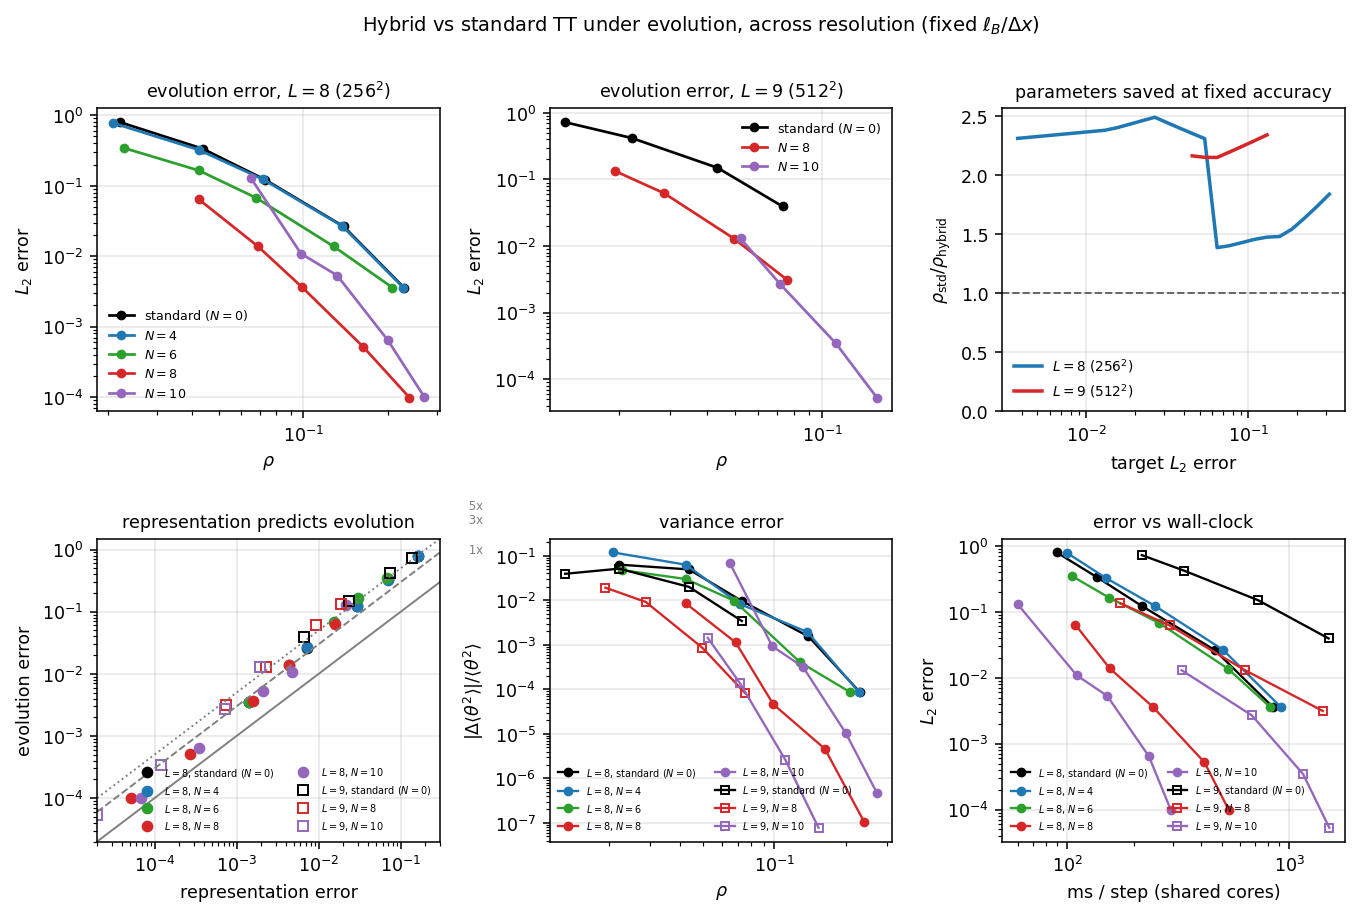
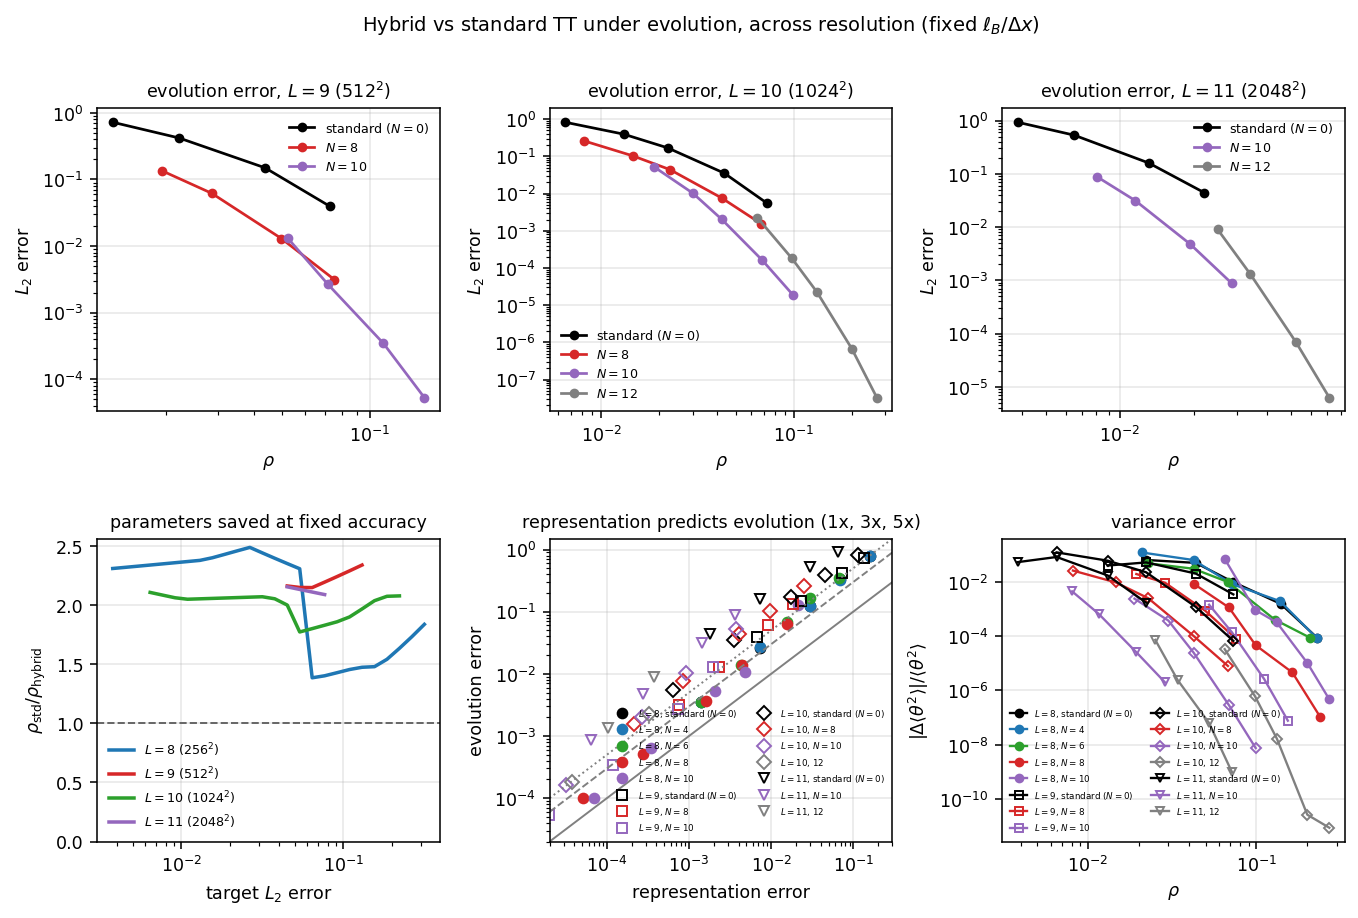
Complete the L=10 and L=11 ladder on the cluster
All 32 tasks finished, no failures. The L=12 set was cancelled deliberately
(tasks 33-44); its two-stage scripts and the shared dense-reference cache are
kept for when it is wanted.

Parameters saved at a fixed accuracy, the practical number, at the one target
inside every resolution's measured range (L2 = 6e-2):

  L=8 (256^2)   2.3x
  L=9 (512^2)   2.1x
  L=10 (1024^2) 1.8x
  L=11 (2048^2) 2.1x

Flat from 256^2 to 2048^2, confirming the correction in 3f39f70: the hybrid
buys a roughly constant factor of ~2 in parameters, not a factor that grows
with resolution. The error ratio at fixed rho still rises (2.8x at rho=0.01 up
to 25x at rho=0.05 for L=10) because the rate-distortion curves steepen, but
that is the same gap read down a steeper axis.

The best head size keeps creeping up by about one leg per L: N=8 at L=8-9,
N=10 at L=10, N=10 to 12 at L=11, so head cost ~2^N grows like sqrt(cells).

Representation error still predicts evolution error within 1.5-25x across four
resolutions, four head sizes and five budgets, which is what licenses using
cheap representation sweeps in place of the expensive evolution runs.

The dense-reference cache (run_decaying_cellular.py --dense-cache) was added
because at 4096^2 every task would otherwise recompute the same 56.5 h
trajectory; verified bit-identical to stepping it inline.

plot_scaleup.py now tolerates a resolution with only one side of the
comparison, and reports the budget saving on a finer ladder of targets, since
[…]

diff --git a/time_evolution/run_decaying_cellular.py b/time_evolution/run_decaying_cellular.py
@@ -186,16 +186,57 @@ def intrinsic_ranks(f: np.ndarray, L: int, N: int):
 
 
 # --------------------------------------------------------------------------
+# shared dense reference
+# --------------------------------------------------------------------------
+def dense_cache_paths(stem: str):
+    """Fields are kept in a plain .npy so they can be memory-mapped."""
+    return stem + "_fields.npy", stem + "_meta.npz"
+
+
+def sample_schedule(n_steps: int, n_samples: int):
+    """Step indices at which diagnostics are recorded."""
+    every = max(1, n_steps // n_samples)
+    idx = [i for i in range(n_steps + 1) if i % every == 0]
+    if idx[-1] != n_steps:
+        idx.append(n_steps)
+    return every, np.array(idx, dtype=np.int64)
+
+
+def load_dense_cache(stem: str, L: int, kappa: float, n_steps: int, idx):
+    """Memory-map a precomputed dense trajectory, refusing a mismatched one.
+
+    Every run at a given (L, kappa, T, samples) steps the *same* dense
+    reference, and at 4096^2 that costs 56.5 h -- far more than the hybrid
+    evolution it exists to validate. Computing it once and sharing it turns
+    twelve 60-hour jobs into twelve 5-to-25-hour ones.
+    """
+    fp, mp = dense_cache_paths(stem)
+    if not (os.path.exists(fp) and os.path.exists(mp)):
+        return None
+    meta = np.load(mp)
+    ok = (int(meta["L"]) == L and int(meta["n_steps"]) == n_steps
+          and np.allclose(float(meta["kappa"]), kappa, rtol=1e-12)
+          and np.array_equal(meta["idx"], idx))
+    if not ok:
+        raise SystemExit(f"dense cache {fp} does not match this run "
+                         f"(L/kappa/steps/sample grid differ) -- rebuild it")
+    return np.load(fp, mmap_mode="r")
+
+
+# --------------------------------------------------------------------------
 # drivers
 # --------------------------------------------------------------------------
 def run(L: int, N: int, kappa: float, T: float, cfl: float, diff_number: float,
         bd: int, eps: float, dense_only: bool, scheme: str, form: str,
-        n_samples: int, n_snaps: int, label: str):
+        n_samples: int, n_snaps: int, label: str,
+        dense_cache: str = None, build_dense_cache: bool = False):
     n, dx, _, _ = grid(L)
     dt = hev.stable_dt(1.0, 1.0, kappa, dx, cfl=cfl, diff_number=diff_number)
     n_steps = int(round(T / dt))
-    every = max(1, n_steps // n_samples)
+    every, sample_idx = sample_schedule(n_steps, n_samples)
     snap_every = max(1, n_steps // max(n_snaps - 1, 1))
+    cache = (load_dense_cache(dense_cache, L, kappa, n_steps, sample_idx)
+             if dense_cache and not build_dense_cache else None)
 
     f0 = initial_field(L)
     dense = f0.copy()
@@ -211,6 +252,26 @@ def run(L: int, N: int, kappa: float, T: float, cfl: float, diff_number: float,
     uyd = ho.hybrid_to_field(uy, L).numpy()
     d_rhs = hev.dense_variable_rhs(uxd, uyd, dx, kappa=kappa, form=form)
 
+    if build_dense_cache:
+        fields = np.empty((len(sample_idx), n, n), dtype=np.float64)
+        k = 0
+        t0 = time.time()
+        for i in range(n_steps + 1):
+            if k < len(sample_idx) and i == sample_idx[k]:
+                fields[k] = dense
+                k += 1
+            if i == n_steps:
+                break
+            dense = hev.dense_step(dense, d_rhs, dt, scheme)
+        fp, mp = dense_cache_paths(dense_cache)
+        os.makedirs(os.path.dirname(fp) or ".", exist_ok=True)
+        np.save(fp, fields)
+        np.savez(mp, L=L, N=N, kappa=kappa, T=T, dt=dt, n_steps=n_steps,
+                 idx=sample_idx, scheme=scheme, form=form)
+        print(f"[{label}] dense cache: {len(sample_idx)} samples, "
+              f"{fields.nbytes/1e9:.2f} GB, {(time.time()-t0)/3600:.1f} h -> {fp}")
+        return fp
+
     if dense_only:
         h = trunc = h_rhs = None
     else:
@@ -221,9 +282,13 @@ def run(L: int, N: int, kappa: float, T: float, cfl: float, diff_number: float,
                                bd_first=bd, bd_remaining=bd, eps=eps)
 
     rows, snaps, snap_t = [], [], []
+    sample_k = 0
     t0 = time.time()
     for i in range(n_steps + 1):
         if i % every == 0 or i == n_steps:
+            if cache is not None:
+                dense = np.asarray(cache[sample_k])
+            sample_k += 1
             row = dict(t=i * dt)
             row.update({f"ref_{k}": v for k, v in
                         field_diagnostics(dense, kappa, dx, L, N).items()})
@@ -259,7 +324,8 @@ def run(L: int, N: int, kappa: float, T: float, cfl: float, diff_number: float,
             break
         if h is not None:
             h = hev.STEPPERS[scheme](h, h_rhs, dt, trunc)
-        dense = hev.dense_step(dense, d_rhs, dt, scheme)
+        if cache is None:
+            dense = hev.dense_step(dense, d_rhs, dt, scheme)
     wall = time.time() - t0
 
     out = dict(L=L, N=N, kappa=kappa, dt=dt, dx=dx, T=T, n_steps=n_steps,
@@ -303,11 +369,16 @@ def main():
     p.add_argument("--samples", type=int, default=64)
     p.add_argument("--snaps", type=int, default=5)
     p.add_argument("--label", default=None)
+    p.add_argument("--dense-cache", default=None,
+                   help="stem of a shared dense trajectory to use (or build)")
+    p.add_argument("--build-dense-cache", action="store_true",
+                   help="compute the dense trajectory and save it, then exit")
     a = p.parse_args()
     label = a.label or ("dense" if a.dense else
                         f"bd{a.bd}" if a.eps is None else f"eps{a.eps:g}")
     run(a.L, a.N, a.kappa, a.T, a.cfl, a.diff_number, a.bd, a.eps, a.dense,
-        a.scheme, a.form, a.samples, a.snaps, label)
+        a.scheme, a.form, a.samples, a.snaps, label,
+        dense_cache=a.dense_cache, build_dense_cache=a.build_dense_cache)
 
 
 if __name__ == "__main__":

diff --git a/time_evolution/plot_scaleup.py b/time_evolution/plot_scaleup.py
@@ -126,12 +126,15 @@ def main():
     errs = np.logspace(-3.5, -0.5, 40)
     for L in Ls:
         Ns = sorted({n for (ll, n) in data if ll == L})
-        if 0 not in Ns:
-            continue
         hyb = [N for N in Ns if N > 0]
+        if 0 not in Ns or not hyb:
+            continue                      # a resolution still missing one side
         std_r = interp_rho(data[(L, 0)], errs)
-        best_r = np.nanmin(np.vstack([interp_rho(data[(L, N)], errs)
-                                      for N in hyb]), axis=0)
+        stack = np.vstack([interp_rho(data[(L, N)], errs) for N in hyb])
+        with np.errstate(invalid="ignore"):
+            best_r = np.where(np.all(np.isnan(stack), axis=0), np.nan,
+                              np.nanmin(np.where(np.isnan(stack), np.inf, stack),
+                                        axis=0))
         ax.semilogx(errs, std_r / best_r, "-", lw=1.8, color=L_COLOR.get(L, "0.5"),
                     label=rf"$L={L}$ (${2**L}^2$)")
     ax.axhline(1.0, color="0.4", ls="--", lw=1)
@@ -184,18 +187,24 @@ def _report(data, Ls):
                   f"{x['ms']:>8.0f}")
 
     print("\nBUDGET SAVED at fixed accuracy (the practical number):")
-    print("  err  " + "".join(f"{'L='+str(L):>10s}" for L in Ls))
-    for te in (1e-1, 1e-2, 1e-3):
+    print("  err      " + "".join(f"{'L='+str(L):>11s}" for L in Ls))
+    # a fine ladder of targets: at the finer grids the standard and hybrid
+    # curves overlap only over a narrow band of error, so a coarse set of
+    # targets falls outside one of them and reports nothing
+    for te in (1e-1, 6e-2, 3e-2, 1e-2, 3e-3, 1e-3):
         row = []
         for L in Ls:
             Ns = sorted({n for (ll, n) in data if ll == L})
-            if 0 not in Ns:
+            cand = [interp_rho(data[(L, N)], np.array([te]))[0]
+                    for N in Ns if N > 0]
+            cand = [c for c in cand if np.isfinite(c)]
+            if 0 not in Ns or not cand:
                 row.append(np.nan); continue
             sr = interp_rho(data[(L, 0)], np.array([te]))[0]
-            br = np.nanmin([interp_rho(data[(L, N)], np.array([te]))[0]
-                            for N in Ns if N > 0])
-            row.append(sr / br)
-        print(f"  {te:.0e} " + "".join(f"{v:>10.1f}x" for v in row))
+            row.append(sr / min(cand))
+        cells = "".join("       --- " if not np.isfinite(v) else f"{v:>10.1f}x"
+                        for v in row)
+        print(f"  {te:7.0e} {cells}")
 
     print("\nERROR RATIO at fixed rho (same curves, steep axis -- bigger number,"
           " same fact):")
@@ -204,12 +213,13 @@ def _report(data, Ls):
         row = []
         for L in Ls:
             Ns = sorted({n for (ll, n) in data if ll == L})
-            if 0 not in Ns:
+            cand = [interp_err(data[(L, N)], np.array([rr]))[0]
+                    for N in Ns if N > 0]
+            cand = [c for c in cand if np.isfinite(c)]
+            if 0 not in Ns or not cand:
                 row.append(np.nan); continue
             sv = interp_err(data[(L, 0)], np.array([rr]))[0]
-            bv = np.nanmin([interp_err(data[(L, N)], np.array([rr]))[0]
-                            for N in Ns if N > 0])
-            row.append(sv / bv)
+            row.append(sv / min(cand))
         print(f"  {rr:.2f} " + "".join(f"{v:>10.1f}x" for v in row))
 
 
